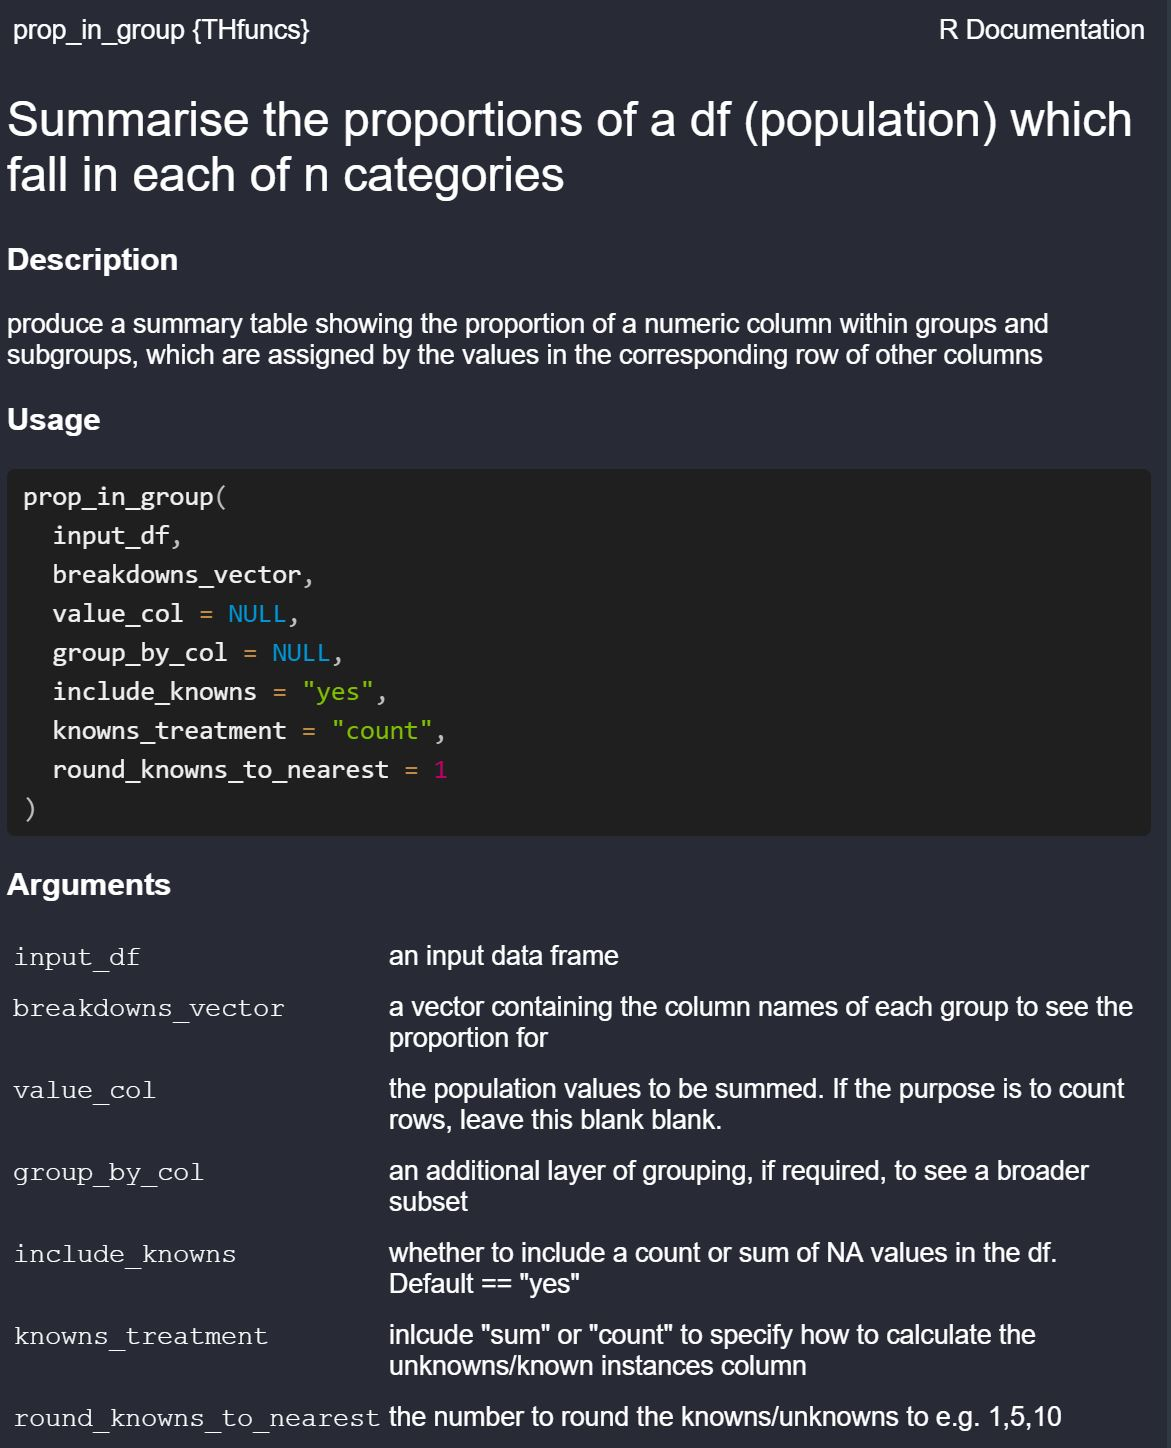
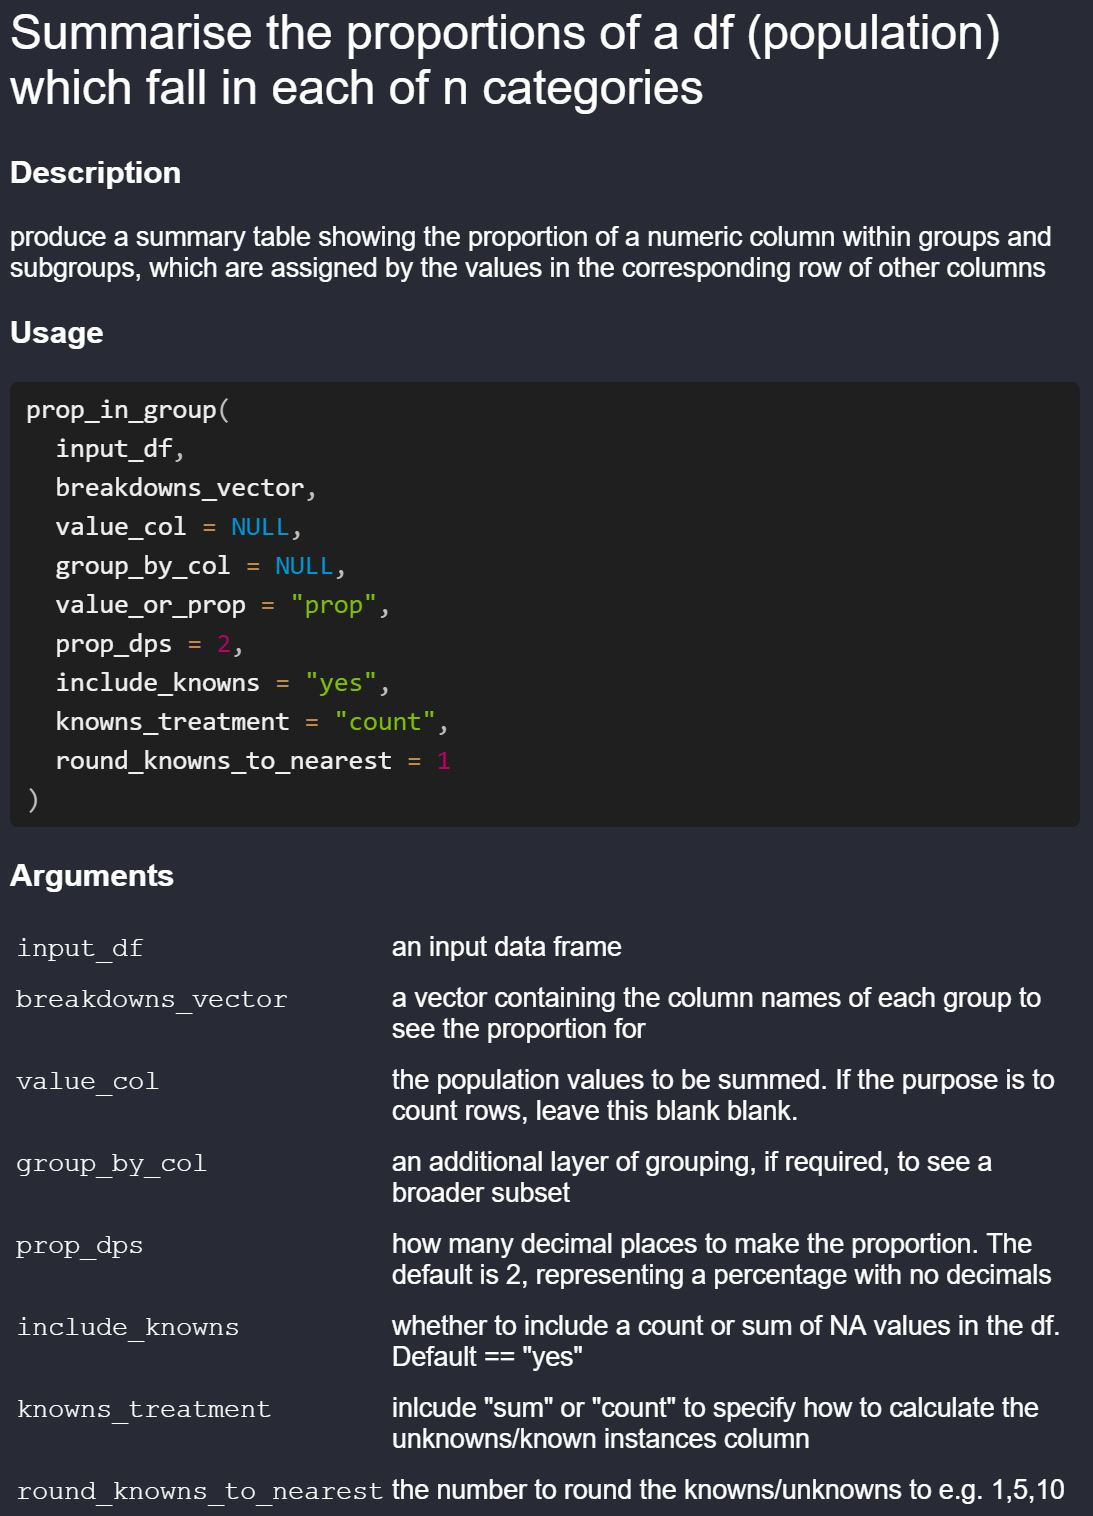
updating value assignment

diff --git a/README.md b/README.md
@@ -173,7 +173,27 @@ prop_in_group(input_df = universities,
 frame (e.g., No Welsh universities in the df were TEF_1819 = Gold), NA
 will be returned*
 
-### Example 4. - Minimalist table without knowns and within pipe
+Example 4: rounding the proportion
+
+The `prop_dps` argument allows you to change the accuracy of the
+proportions
+
+``` r
+
+prop_in_group(input_df = universities,
+              breakdowns_vector = c("TEF_1819"),
+              value_col = `Student numbers`,
+              prop_dps = 4,
+              knowns_treatment = "count")
+```
+
+| Grouping | Subgroup | Proportion | Known in Group | Unknowns |
+|:---------|:---------|-----------:|---------------:|---------:|
+| TEF_1819 | Gold     |     0.3956 |              9 |        0 |
+| TEF_1819 | No TEF   |     0.2967 |              9 |        0 |
+| TEF_1819 | Silver   |     0.3077 |              9 |        0 |
+
+### Example 5. - Minimalist table without knowns and within pipe
 
 This table summarises the proportion of universities in each tariff
 group. Instead of ignoring NA values, we can reassign these values such
@@ -201,10 +221,19 @@ output_df <- universities %>%
 | Ofs_Tariff_1920 | Specialist HEI |       0.22 |
 | Ofs_Tariff_1920 | UNKNOWN TARIFF |       0.33 |
 
-Test
+Example 6: values not proportions
 
-| Grouping | Subgroup | Wales | Scotland | England | Known in Group | Unknowns |
-|:---------|:---------|------:|---------:|--------:|---------------:|---------:|
-| TEF_1819 | Gold     | 33510 |    74975 |  144230 |              9 |        0 |
-| TEF_1819 | No TEF   | 33510 |    74975 |  144230 |              9 |        0 |
-| TEF_1819 | Silver   | 33510 |    74975 |  144230 |              9 |        0 |
+``` r
+
+prop_in_group(input_df = universities,
+              breakdowns_vector = c("TEF_1819"),
+              value_col = `Student numbers`,
+              value_or_prop = "value",
+              knowns_treatment = "count")
+```
+
+| Grouping | Subgroup |  Value | Known in Group | Unknowns |
+|:---------|:---------|-------:|---------------:|---------:|
+| TEF_1819 | Gold     | 252715 |              9 |        0 |
+| TEF_1819 | No TEF   | 252715 |              9 |        0 |
+| TEF_1819 | Silver   | 252715 |              9 |        0 |
